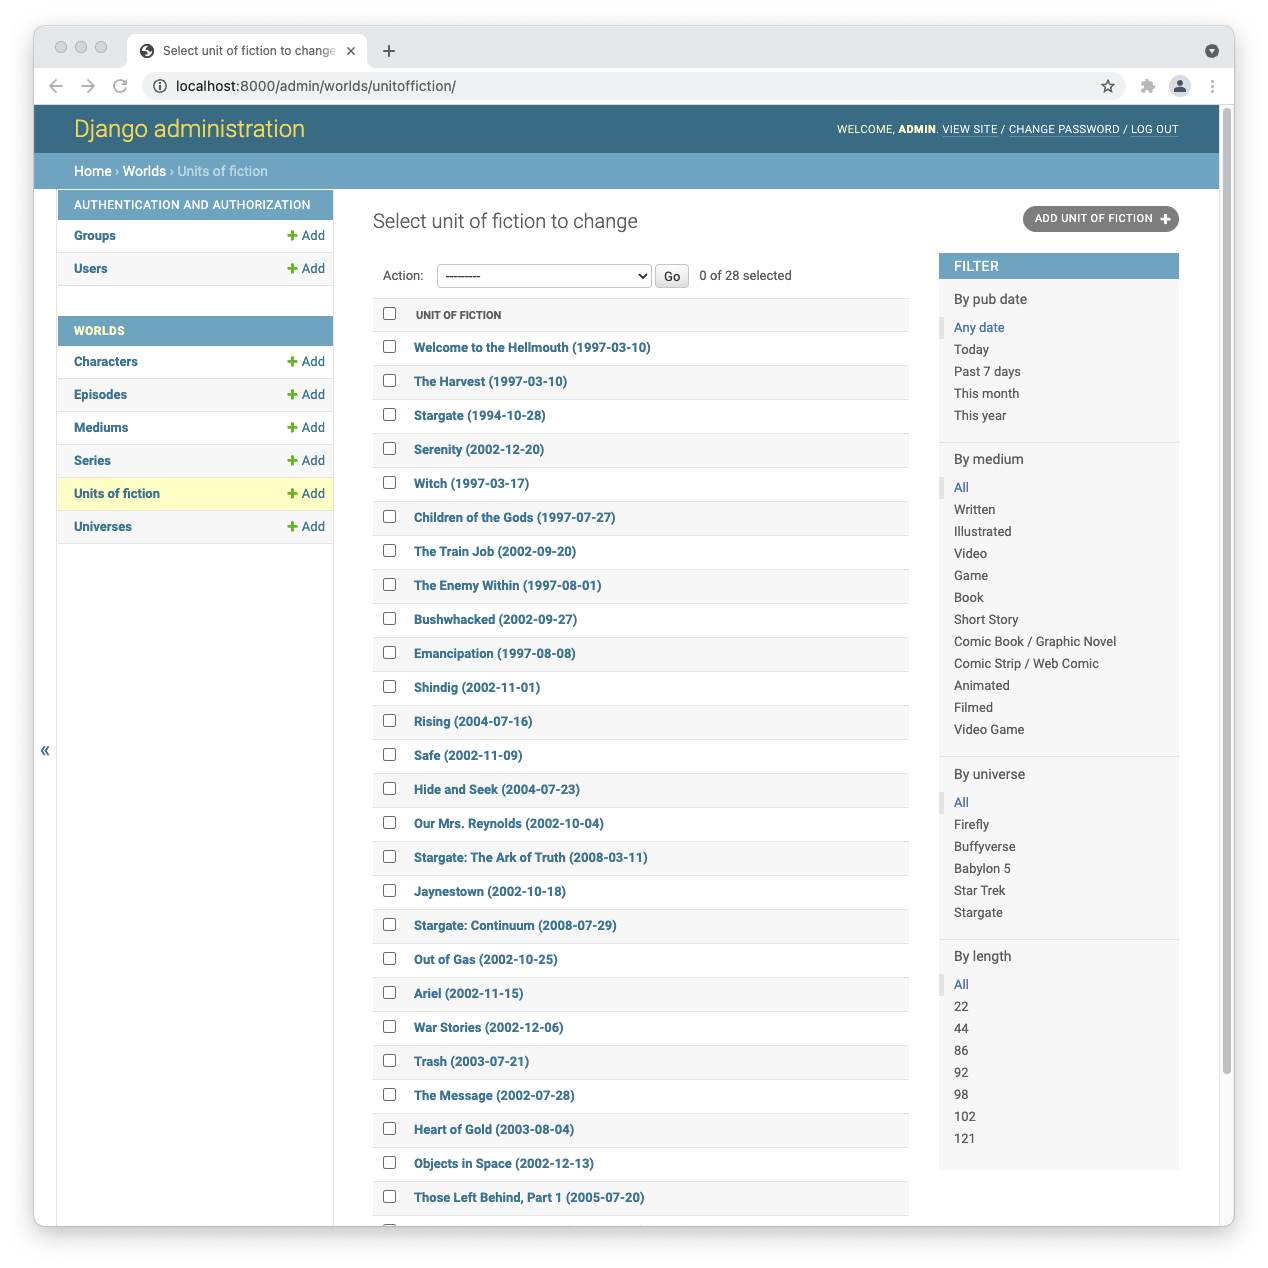
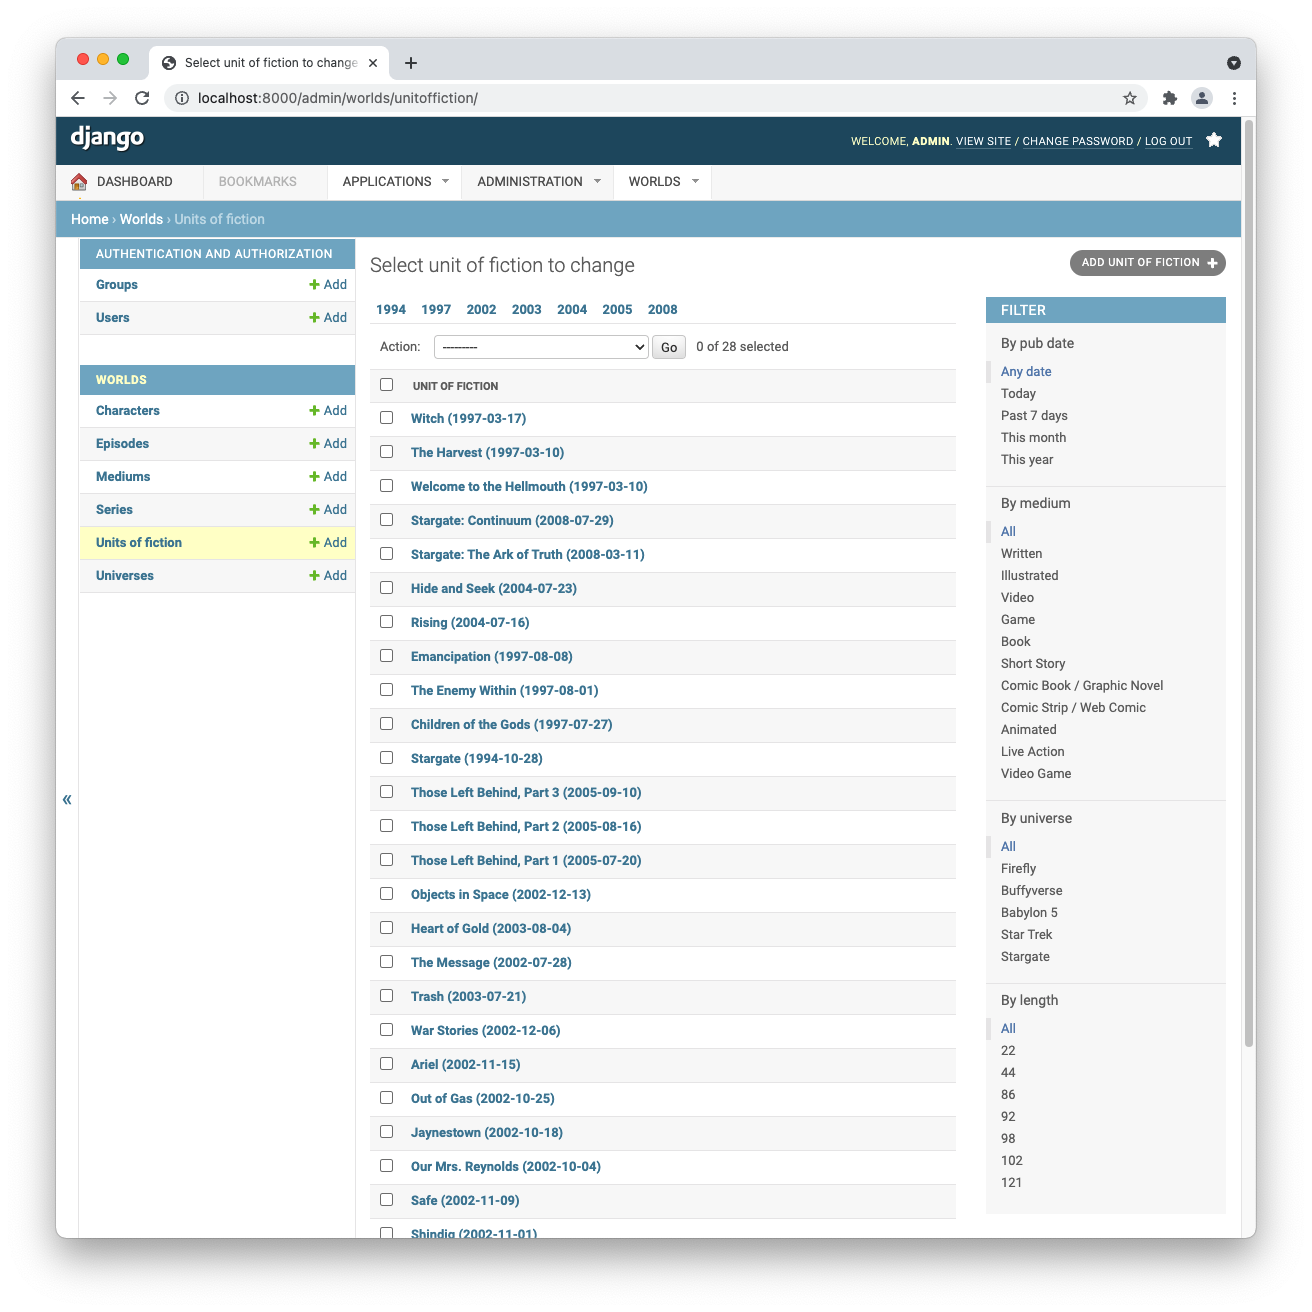
gallery fixes

Changed region(s): [[0.0, 0.0, 0.9842, 0.9842]]

diff --git a/worlds/admin.py b/worlds/admin.py
@@ -38,16 +38,16 @@ class SeriesAdmin(admin.ModelAdmin):
 
 @admin.register(UnitOfFiction)
 class UnitOfFictionAdmin(admin.ModelAdmin):
-#    date_hierarchy = 'pub_date'
+    date_hierarchy = 'pub_date'
 #    list_display = [ 'universe', 'ordinal', 'title', 'pub_date' ]
 #    list_display = [ 'orderable_universe', 'ordinal', 'title', 'pub_date' ]
-    list_display = [ 'universe_name', 'ordinal', 'medium_label', 'title', 'pub_date' ]
-    list_display_links = [ 'title' ]
+#    list_display = [ 'universe_name', 'ordinal', 'medium_label', 'title', 'pub_date' ]
+#    list_display_links = [ 'title' ]
 #    list_filter = [ 'pub_date' ]
-#    list_filter = [ 'pub_date', 'medium', 'universe', 'length' ]
-    list_select_related = [ 'medium', 'universe' ]                          # optimize queries
+    list_filter = [ 'pub_date', 'medium', 'universe', 'length' ]
+#    list_select_related = [ 'medium', 'universe' ]                          # optimize queries
 #    ordering = [ 'universe', 'ordinal' ]
-    ordering = [ 'universe__name', 'ordinal' ]
+#    ordering = [ 'universe__name', 'ordinal' ]
     readonly_fields = ('universe',)
 
 
